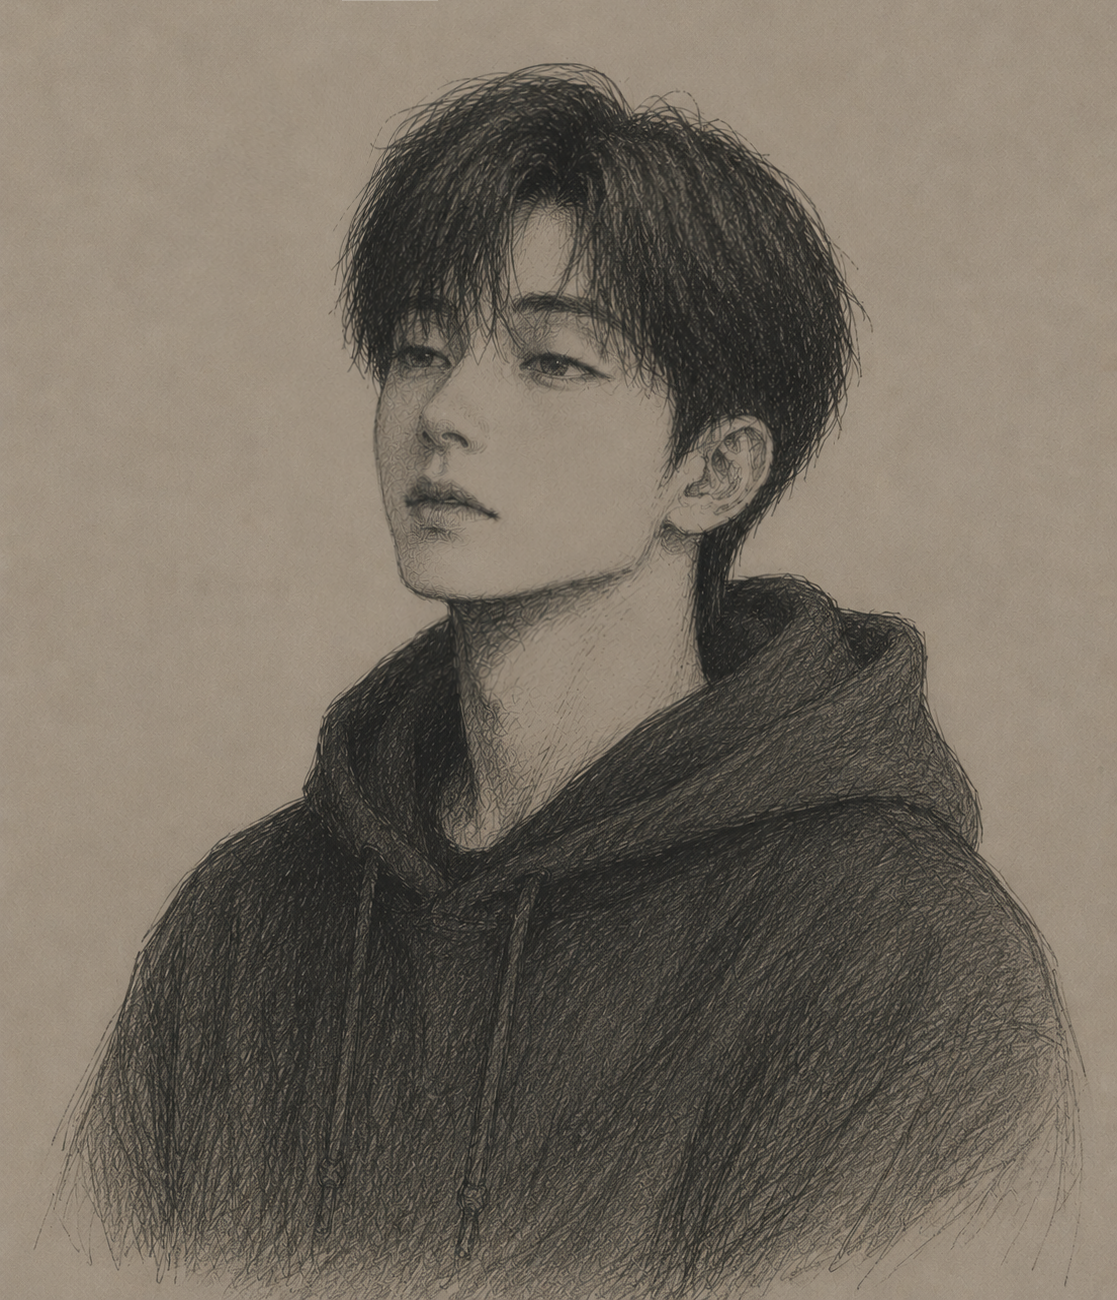
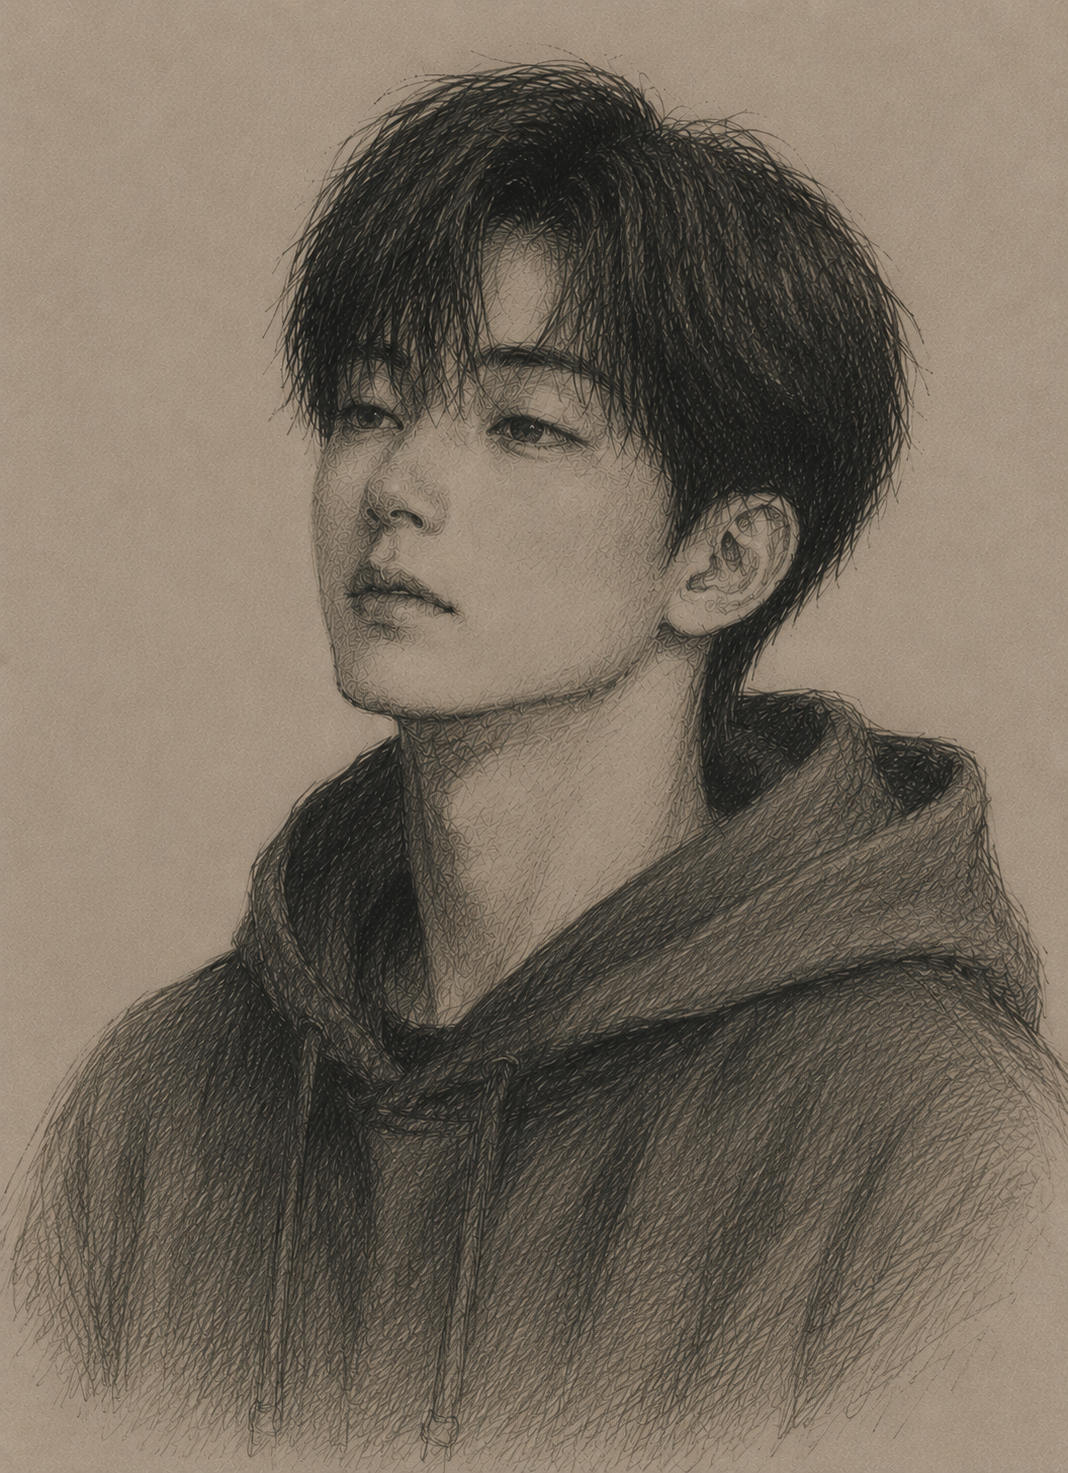
황준석 교수 NPC 캐릭터 추가 + 캐릭터 이미지 업데이트 + H 미스디렉션 설계 문서화
- 교수 캐릭터(황준석, 57세) game-data.js에 추가 (selectable: false)
- 인물 선택 화면: NPC 카드 점선 테두리 + NPC 라벨, 클릭 불가
- 인물/목표 탭: 교수 카드 NPC 뱃지 표시
- 서버: NPC 선택 차단 로직 추가
- 캐릭터 일러스트 3종 업데이트 (하진, 도현, 교수)
- CLAUDE.md: 교수 캐릭터 정보, H 미스디렉션 설계, 추가 예정 증거 4개 문서화

Changed region(s): [[0.0, 0.0308, 1.0, 1.0]]

diff --git a/public/app.js b/public/app.js
@@ -1675,10 +1675,11 @@ function renderCharacterInfoTab(container) {
 
   for (const char of state.allCharacters) {
     const isMe = state.character && state.character.id === char.id;
+    const isNpc = char.selectable === false;
     const card = document.createElement('div');
-    card.className = 'character-info-card' + (isMe ? ' is-me' : '');
+    card.className = 'character-info-card' + (isMe ? ' is-me' : '') + (isNpc ? ' is-npc' : '');
 
-    const badge = isMe ? '<span class="character-badge">나</span>' : '';
+    const badge = isMe ? '<span class="character-badge">나</span>' : (isNpc ? '<span class="character-npc-label">NPC</span>' : '');
     const row = document.createElement('div');
     row.className = 'character-info-row';
     row.innerHTML =
@@ -2043,6 +2044,7 @@ const SK = 'filter="url(#pencil)"'; // shorthand
 const CHARACTER_SILHOUETTES = {
   hajin: '<img src="/assets/hajin.png" alt="서하진" />',
   dohyun: '<img src="/assets/dohyun.png" alt="이도현" />',
+  professor: '<img src="/assets/professor.png" alt="황준석" />',
 };
 
 function renderCharacterCards(characters) {
@@ -2051,32 +2053,35 @@ function renderCharacterCards(characters) {
   container.innerHTML = '';
 
   for (const char of characters) {
-    const card = document.createElement('button');
-    card.className = 'character-card';
+    const isNpc = char.selectable === false;
+    const card = document.createElement(isNpc ? 'div' : 'button');
+    card.className = 'character-card' + (isNpc ? ' npc' : '');
     card.dataset.characterId = char.id;
     card.innerHTML =
       '<div class="character-silhouette">' + (CHARACTER_SILHOUETTES[char.id] || '') + '</div>' +
       '<div class="character-info">' +
-        '<h3 class="character-name">' + char.name + '</h3>' +
+        '<h3 class="character-name">' + char.name + (isNpc ? '<span class="character-npc-label">NPC</span>' : '') + '</h3>' +
         '<span class="character-age">' + char.age + '\uC138, ' + (char.gender || '') + '</span>' +
         '<p class="character-desc">' + char.desc + '</p>' +
       '</div>';
-    card.addEventListener('click', () => {
-      if (card.classList.contains('taken')) return;
-      SFX.click();
+    if (!isNpc) {
+      card.addEventListener('click', () => {
+        if (card.classList.contains('taken')) return;
+        SFX.click();
 
-      if (card.classList.contains('selected')) {
-        // Deselect current selection
-        card.classList.remove('selected');
+        if (card.classList.contains('selected')) {
+          // Deselect current selection
+          card.classList.remove('selected');
+          socket.emit('select-character', { characterId: char.id });
+          return;
+        }
+
+        // Select (or switch to) this character
+        container.querySelectorAll('.character-card:not(.npc)').forEach((c) => c.classList.remove('selected'));
+        card.classList.add('selected');
         socket.emit('select-character', { characterId: char.id });
-        return;
-      }
-
-      // Select (or switch to) this character
-      container.querySelectorAll('.character-card').forEach((c) => c.classList.remove('selected'));
-      card.classList.add('selected');
-      socket.emit('select-character', { characterId: char.id });
-    });
+      });
+    }
     container.appendChild(card);
   }
 }

diff --git a/public/style.css b/public/style.css
@@ -1204,6 +1204,30 @@ body::before {
   pointer-events: none;
 }
 
+.character-card.npc {
+  cursor: default;
+  opacity: 0.85;
+  border-style: dashed;
+}
+
+.character-card.npc:hover {
+  border-color: var(--border);
+}
+
+.character-npc-label {
+  display: inline-block;
+  font-family: var(--font-mono);
+  font-size: 0.65rem;
+  font-weight: 600;
+  color: var(--text-muted);
+  border: 1px solid var(--border);
+  border-radius: 4px;
+  padding: 1px 6px;
+  margin-left: 8px;
+  vertical-align: middle;
+  letter-spacing: 0.05em;
+}
+
 .character-silhouette {
   width: 100%;
   height: 280px;

diff --git a/game-data.js b/game-data.js
@@ -20,6 +20,14 @@ module.exports = {
       gender: '남',
       desc: '연구실 1년차. 직관적이고 예민하다. ARIA 시스템에 남다른 관심과 애착을 보인다.',
     },
+    {
+      id: 'professor',
+      name: '황준석',
+      age: 57,
+      gender: '남',
+      desc: '자율시스템 연구실 지도교수. 괴팍하고 예민하기로 유명하다. 다른 공대 교수들에 비해 체격이 좋은 편이다.',
+      selectable: false,
+    },
   ],
 
   roles: {

diff --git a/server.js b/server.js
@@ -670,6 +670,10 @@ io.on('connection', (socket) => {
       return;
     }
 
+    // Block NPC selection
+    const charData = (gameData.characters || []).find(c => c.id === characterId);
+    if (charData && charData.selectable === false) return;
+
     // Check if already taken by the other player
     const otherPlayerId = Object.keys(room.characterSelections).find(id => id !== socket.id);
     if (otherPlayerId && room.characterSelections[otherPlayerId] === characterId) {
